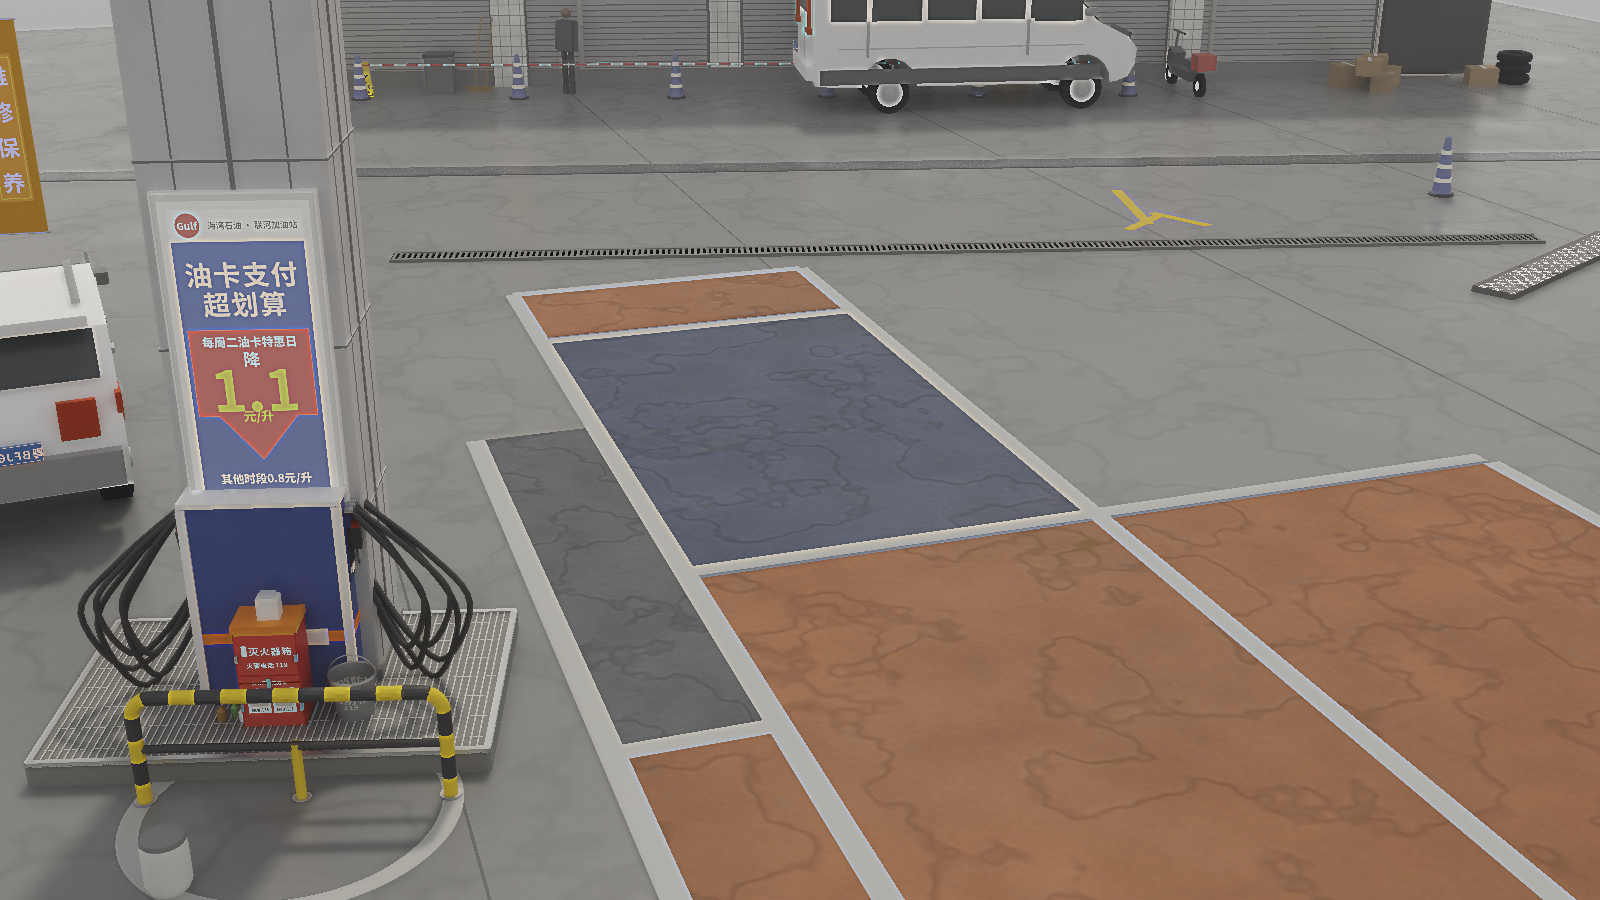
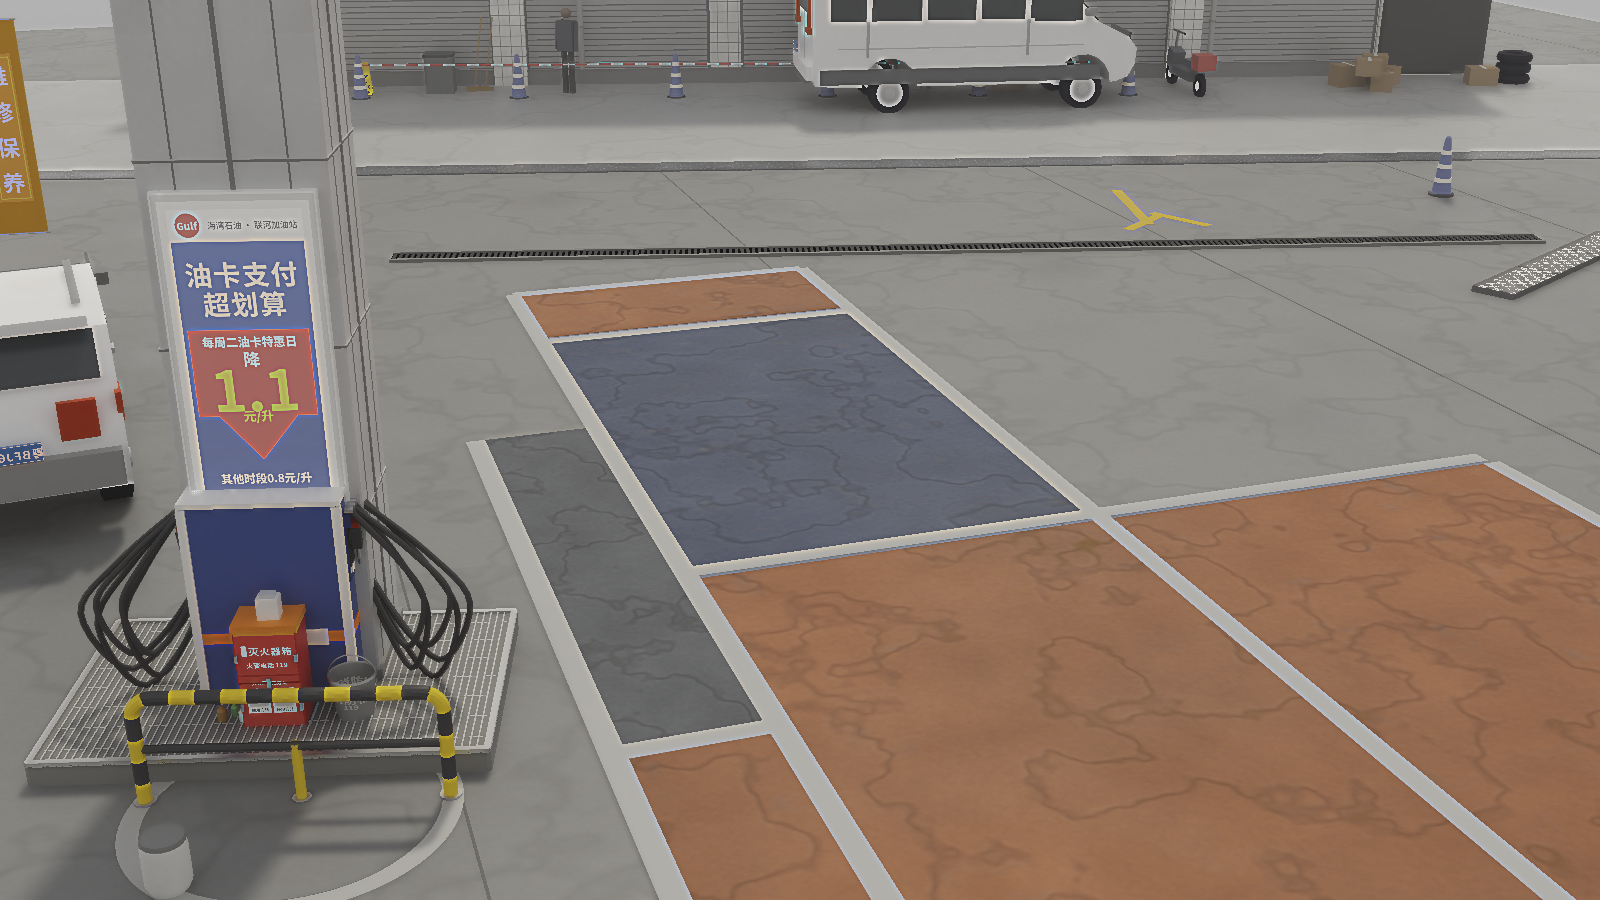
the yard was facing 8.5 degrees the wrong way, and that is one line of the file
ANG = -15 was doing two jobs and neither of them was measured. Both are now:

  ANG      -20.0   the forecourt's own painted edge. The yellow road line,
                   segmented by colour, 6,525 pixels unprojected: fits
                   y = -0.3635x + 16.61, so -19.98 deg.
  YARD_ANG  -6.4   the BUILDING line. Two independent fits agree and both
                   disagree with the paint: the bollard row (eight bollards,
                   segmented by their blue, each one's contact point taken as
                   its lowest pixel) gives -6.36 through y = 18.09 - 0.111x, and
                   the shutter bases give -6.72.

A forecourt's paint does not have to be parallel to the shop it is painted in
front of, and here it is not. Conflating them tilted the whole back of the scene
8.5 degrees, which is the kind of error where no single object looks wrong and
the picture does. facade chamfer 13.28 -> 9.13.

The van came with it, and was then measured off its SILL — unprojected at the
sill's own height, not onto z=0. Reading an elevated point as ground always
lands it beyond itself: at z=0 the sill stretched a 5.95 m van to 9.3 m and put
it four metres too far away. At its real height it is 7.0 m of sill at
(7.9, 14.6), yaw -14.5. Chamfer 11.50 -> 7.01.

Bollards re-placed on the measured row rather than spread along a guess.

diff --git a/examples/cases/26_forecourt.py b/examples/cases/26_forecourt.py
@@ -47,9 +47,20 @@ REF = Path(os.environ.get("MIRAGE_REF", "D:/dRepo_26/frame_2026-5-9_09-28-55.png
 # Don't hardcode the machine you happen to be sitting at.
 THREADS = os.environ.get("MIRAGE_THREADS", "14")
 
-# The scene's forward axis (the bay's long edge, world +y) is not square to the building
-# line behind it; the yard and road sit at this yaw.
-ANG = -15.0
+# TWO directions, and conflating them was an 8.5-degree error across the whole back of the
+# scene — the thing that reads as "the layout is facing the wrong way" without any single
+# object looking wrong. Both are now measured off the photograph rather than asserted:
+#
+#   ANG      the forecourt's own painted edge. Segmenting the yellow road line and
+#            unprojecting 6,525 pixels fits y = -0.3635x + 16.61, i.e. -19.98 deg.
+#   YARD_ANG the BUILDING line. Two independent fits agree and both disagree with the
+#            above: the bollard row (eight bollards, segmented by their blue, contact
+#            point = the lowest pixel of each) gives -6.36 deg through y = 18.09 - 0.111x,
+#            and the shutter bases give -6.72. A forecourt's paint does not have to be
+#            parallel to the shop it is painted in front of, and here it is not.
+ANG = -20.0
+YARD_ANG = -6.4
+YARD_BASE = (8.5, 19.13)
 # WHERE THINGS STAND. One dict, read by `scene()` and by `forecourt.place` alike — the audit
 # tool used to restate these numbers and therefore audited a scene that did not exist: the
 # speed hump had already been moved and the fit was still searching around its old spot,
@@ -71,14 +82,17 @@ def PLACEMENTS():
         # photomatch.chamfer_per_object documents ("an object sitting in clutter is near
         # SOMETHING no matter where you put it"). The overlay caught it; the number did not.
         "rail":    (lambda: P.hazard_rail(1.88, 0.74), [-3.16, -2.30, 0], ANG - 1),
-        "van":     (P.van, [9.9, 17.4, 0], ANG + 4),
+        # Measured off its SILL, unprojected at the sill's own height rather than onto
+        # z=0 — which stretched a 5.95 m van to 9.3 m and pushed it four metres too far
+        # away, because an elevated point read as ground always lands beyond itself.
+        "van":     (P.van, [7.9, 14.6, 0], -14.5),
         "suv":     (P.suv, [-5.3, 4.4, 0], 96),
         "hump":    (lambda: P.speed_hump(3.6, 0.52), [12.6, 5.0, 0], 26),
-        "facade":  (lambda: P.facade(24.0, 5.2), [8.5, 20.2, 0], ANG),
+        "facade":  (lambda: P.facade(24.0, 5.2), [8.5, 19.13, 0], YARD_ANG),
     }
 
 
-def at(dx, dy, ang=ANG, base=(8.5, 20.2)):
+def at(dx, dy, ang=YARD_ANG, base=YARD_BASE):
     """A point `dx` along the building line and `dy` off it — the yard's own coordinates.
     The facade runs at ANG, so laying its clutter out in world x/y by hand is a way to get
     everything subtly off the wall."""
@@ -112,7 +126,8 @@ def forecourt():
     # slab of tarmac had been laid across the middle of it, which is why the render's
     # distance went dark exactly where the photograph's goes bright.
     # the shop frontage: a separate, lighter pour, starting just beyond the gutter
-    p.place(P.box(42, 8.0, 0.02), at=[7, 17.2, 0.007], rotate=[0, 0, ANG], material=APRON_LT)
+    p.place(P.box(42, 8.0, 0.02), at=[8.5, 16.6, 0.007], rotate=[0, 0, YARD_ANG],
+            material=APRON_LT)
     p.place(P.box(40, 0.55, 0.02), at=[7, 12.9, 0.011], rotate=[0, 0, ANG], material=ROAD)
     # Saw-cut joints, but ONE way only. A poured apron is cast in STRIPS and the joints run
     # with them; a scan across the bare concrete right of the bays found no periodic
@@ -165,7 +180,8 @@ def forecourt():
     for s in (-1, 1):
         p.place(P.box(0.15, 0.95, 0.006), at=[9.0 + s * 0.28, 8.55, 0.004],
                 rotate=[0, 0, ANG + s * 40], material=YELLOWP)
-    p.place(P.box(14, 0.14, 0.006), at=[8, 12.6, 0.004], rotate=[0, 0, ANG], material=YELLOWP)
+    p.place(P.box(20, 0.14, 0.006), at=[8.0, 13.70, 0.004], rotate=[0, 0, ANG],
+            material=YELLOWP)
     # Scanning a column up the photograph put the drain at world y = 8.0 (black at 8.04,
     # concrete again by 8.47). It had been sitting at 11.3, three metres into the road.
     p.place(P.drain_channel(15.0), at=[6.0, 8.05, 0], rotate=[0, 0, ANG])
@@ -181,28 +197,29 @@ def yard():
     p.place(fb(), at=fpos, rotate=[0, 0, fyaw], mark="facade")
     for dx in (-8.4, -4.3, -0.2, 4.6, 8.7):                       # the workshop bays
         c = at(dx, -0.22)
-        p.place(P.roller_shutter(3.4, 3.2), at=[c[0], c[1], 0], rotate=[0, 0, ANG],
+        p.place(P.roller_shutter(3.4, 3.2), at=[c[0], c[1], 0], rotate=[0, 0, YARD_ANG],
                 mark="shutters")
     for dx in (-6.35, 2.2, 6.65):                                 # the piers between them
         c = at(dx, -0.24)
-        p.place(P.tiled_pilaster(0.62, 4.6), at=[c[0], c[1], 0], rotate=[0, 0, ANG],
+        p.place(P.tiled_pilaster(0.62, 4.6), at=[c[0], c[1], 0], rotate=[0, 0, YARD_ANG],
                 mark="piers")
     c = at(11.6, -0.30)                                           # an open doorway
-    p.place(P.box(2.1, 0.12, 2.6), at=[c[0], c[1], 1.35], rotate=[0, 0, ANG],
+    p.place(P.box(2.1, 0.12, 2.6), at=[c[0], c[1], 1.35], rotate=[0, 0, YARD_ANG],
             material=mat((0.045, 0.048, 0.05), 0.0, 0.6))
     c = at(-2.4, -0.55)
-    p.place(P.hanging_banner(1.30, 1.76, WASH_F), at=[c[0], c[1], 3.15], rotate=[0, 0, ANG],
+    p.place(P.hanging_banner(1.30, 1.76, WASH_F), at=[c[0], c[1], 3.15], rotate=[0, 0, YARD_ANG],
             mark="banners")
     c = at(3.9, -0.55)
-    p.place(P.hanging_banner(0.55, 2.75, PROMO_F), at=[c[0], c[1], 3.30], rotate=[0, 0, ANG],
+    p.place(P.hanging_banner(0.55, 2.75, PROMO_F), at=[c[0], c[1], 3.30], rotate=[0, 0, YARD_ANG],
             mark="banners")
     # the vehicles and the ground clutter along the wall
     L = PLACEMENTS()
     for name in ("van", "hump", "suv"):
         build, pos, yaw = L[name]          # not `at`: that is this module's yard-coord helper
         p.place(build(), at=pos, rotate=[0, 0, yaw], mark=name)
-    for dx, dy in [(-9.0, -1.5), (-6.1, -1.6), (-3.2, -1.7), (-0.4, -1.8), (2.4, -1.9),
-                   (5.2, -2.0)]:
+    # measured: eight bollards from world x 0.3 to 22.2, all about 1.5 m off the wall
+    for dx, dy in [(-8.0, -2.05), (-4.7, -1.85), (-1.6, -1.55), (4.5, -1.35),
+                   (6.6, -1.25), (9.4, -1.15), (10.3, -1.10), (13.9, -1.07)]:
         c = at(dx, dy)
         p.place(P.bollard(), at=[c[0], c[1], 0], mark="bollards")
     # The clutter a working yard accumulates. Placed in the facade's own coordinates (dx
@@ -213,32 +230,32 @@ def yard():
                         (3.1, -1.20, 25), (12.2, -1.35, -8)]:
         q = at(dx, dy)
         p.place(P.carton(0.52 + 0.10 * (dx % 3), 0.40, 0.34 + 0.05 * (dx % 2)),
-                at=[q[0], q[1], 0], rotate=[0, 0, ANG + rot])
+                at=[q[0], q[1], 0], rotate=[0, 0, YARD_ANG + rot])
     for dx, dy in [(10.0, -1.55), (9.7, -2.05)]:
         q = at(dx, dy)
-        p.place(P.carton(0.46, 0.36, 0.30), at=[q[0], q[1], 0.34], rotate=[0, 0, ANG - 18])
+        p.place(P.carton(0.46, 0.36, 0.30), at=[q[0], q[1], 0.34], rotate=[0, 0, YARD_ANG - 18])
     q = at(6.4, -1.55)
-    p.place(P.scooter(), at=[q[0], q[1], 0], rotate=[0, 0, ANG + 96])
+    p.place(P.scooter(), at=[q[0], q[1], 0], rotate=[0, 0, YARD_ANG + 96])
     q = at(12.9, -1.15)
     p.place(P.tyre_stack(3), at=[q[0], q[1], 0])
     # the hazard tape strung along the bollard line
-    tape = [at(dx, dy) for dx, dy in [(-9.0, -1.5), (-6.1, -1.6), (-3.2, -1.7),
-                                      (-0.4, -1.8), (2.4, -1.9), (5.2, -2.0)]]
+    tape = [at(dx, dy) for dx, dy in [(-8.0, -2.05), (-4.7, -1.85), (-1.6, -1.55),
+                                      (4.5, -1.35), (6.6, -1.25), (9.4, -1.15)]]
     p.place(P.tape_run([[a0, b0, 0.62] for a0, b0 in tape]))
     for dx, dy, kind in [(-7.6, -0.95, "bin"), (-7.0, -0.9, "broom"), (-6.8, -0.85, "broom")]:
         c = at(dx, dy)
         if kind == "bin":
-            p.place(P.bin_(), at=[c[0], c[1], 0], rotate=[0, 0, ANG])
+            p.place(P.bin_(), at=[c[0], c[1], 0], rotate=[0, 0, YARD_ANG])
         else:
-            p.place(P.broom(1.4), at=[c[0], c[1], 0], rotate=[0, 9, ANG])
+            p.place(P.broom(1.4), at=[c[0], c[1], 0], rotate=[0, 9, YARD_ANG])
     for dx, dy, top in [(-5.2, -1.15, (0.10, 0.11, 0.13)), (0.9, -1.05, (0.30, 0.30, 0.31)),
                         (1.5, -1.15, (0.14, 0.15, 0.30))]:
         c = at(dx, dy)
-        p.place(P.person(1.70, top), at=[c[0], c[1], 0], rotate=[0, 0, ANG + 150],
+        p.place(P.person(1.70, top), at=[c[0], c[1], 0], rotate=[0, 0, YARD_ANG + 150],
                 mark="people")
     for k, (dx, dy) in enumerate([(-9.6, -1.05), (-9.0, -1.15)]):  # the 小心地滑 A-frames
         c = at(dx, dy)
-        p.place(P.wet_floor_sign(), at=[c[0], c[1], 0], rotate=[0, 0, ANG + 8 * k],
+        p.place(P.wet_floor_sign(), at=[c[0], c[1], 0], rotate=[0, 0, YARD_ANG + 8 * k],
                 mark="wetsign")
     p.place(P.bollard(0.86), at=[13.6, 8.6, 0])
     p.place(P.hanging_banner(0.60, 2.60, REPAIR_F), at=[-5.6, 11.0, 1.75], rotate=[0, 0, -6],
